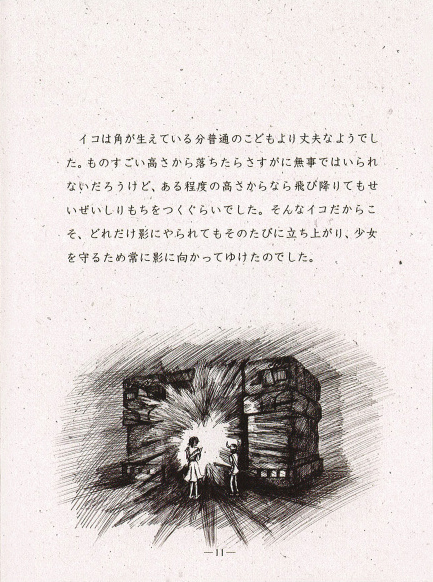
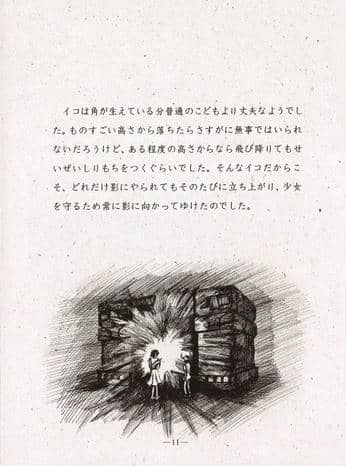
added bottom space to sound button and compressed PS3 Manual Japanese version

diff --git a/style.css b/style.css
@@ -626,7 +626,7 @@ body {
 /* ---------- Music button ---------- */
 .sound-btn {
   position: fixed;
-  bottom: 20px;
+  bottom: 50px;
   right: 20px;
   z-index: 200;
   padding: 10px 18px;
